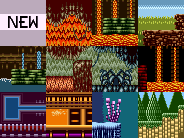
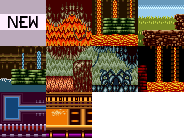
BF worldmap fixes

Changed region(s): [[0.4891, 0.6667, 1.0, 1.0]]

diff --git a/src/ui/area_selector.cpp b/src/ui/area_selector.cpp
@@ -27,8 +27,9 @@ void TA_AreaSelector::appendPoints() {
         std::string path = (element.contains("path") ? element.at("path").as_string() : "");
         float x = static_cast<float>(element.at("x").as_integer());
         float y = static_cast<float>(element.at("y").as_integer());
+        bool highlight = !element.contains("highlight") || element.at("highlight").as_boolean();
         bool battleFortress = element.contains("battle_fortress") && element.at("battle_fortress").as_boolean();
-        points.emplace_back(name, path, TA_Point(x + xOffset, y + yOffset), battleFortress);
+        points.emplace_back(name, path, TA_Point(x + xOffset, y + yOffset), highlight, battleFortress);
 
         if(element.contains("up")) {
             points.back().setNeighbour(TA_DIRECTION_UP, static_cast<int>(element.at("up").as_integer()));
@@ -77,8 +78,13 @@ void TA_AreaSelector::addSelectedArea() {
 
 void TA_AreaSelector::setActivePoints() {
     int64_t areaMask = TA::save::getSaveParameter("area_mask");
-    int add = (TA::save::getSaveParameter("seafox") ? 40 : 0);
+    int64_t itemMask = TA::save::getSaveParameter("item_mask");
+    bool seafox = (TA::save::getSaveParameter("seafox") != 0);
+    int add = (seafox ? 40 : 0);
     for(int level = 0; level < static_cast<int>(points.size()); level++) {
+        if(seafox && points[level].isBattleFortress() && (itemMask & (1LL << 25)) == 0) {
+            continue;
+        }
         if((areaMask & (1LL << (level + add))) != 0) {
             points[level].activate();
         }
@@ -128,10 +134,8 @@ TA_ScreenState TA_AreaSelector::update() {
 }
 
 void TA_AreaSelector::draw() {
-    if(TA::save::getSaveParameter("seafox") == 0) {
-        for(int pos = 1; pos < static_cast<int>(points.size()); pos++) {
-            points[pos].draw();
-        }
+    for(int pos = 1; pos < static_cast<int>(points.size()); pos++) {
+        points[pos].draw();
     }
     tailsIcon.draw();
     controller.draw();
@@ -141,10 +145,11 @@ std::string TA_AreaSelector::getSelectionName() {
     return points[pos].getName();
 }
 
-TA_MapPoint::TA_MapPoint(std::string name, std::string path, TA_Point position, bool battleFortress) {
+TA_MapPoint::TA_MapPoint(std::string name, std::string path, TA_Point position, bool highlight, bool battleFortress) {
     this->position = position;
     this->name = name;
     this->path = path;
+    this->highlight = highlight;
     this->battleFortress = battleFortress;
     for(int direction = 0; direction < TA_DIRECTION_MAX; direction++) {
         neighbours[direction] = -1;
@@ -161,7 +166,7 @@ bool TA_MapPoint::updateButton() {
 }
 
 void TA_MapPoint::draw() {
-    if(!active) {
+    if(!active || !highlight) {
         return;
     }
 

diff --git a/src/ui/data_select_section.cpp b/src/ui/data_select_section.cpp
@@ -9,6 +9,7 @@ void TA_DataSelectSection::load() {
     selectorRedSprite.load("data_select/selector.png", 48, 72);
     selectorWhiteSprite.load("data_select/selector.png", 48, 72);
     previewSprite.load("data_select/preview.png", 46, 46);
+    previewSeafoxSprite.load("data_select/preview_seafox.png", 46, 46);
     optionsSprite.load("data_select/options.png");
 
     font.loadFont("fonts/pause_menu.toml");
@@ -141,6 +142,7 @@ void TA_DataSelectSection::drawCustomEntries() {
 void TA_DataSelectSection::drawSaveEntries() {
     entrySprite.setAlpha(alpha);
     previewSprite.setAlpha(alpha);
+    previewSeafoxSprite.setAlpha(alpha);
     font.setAlpha(255 * ((float)alpha / 255) * ((float)alpha / 255));
 
     for(int num = 0; num < 8; num++) {
@@ -149,13 +151,22 @@ void TA_DataSelectSection::drawSaveEntries() {
         entrySprite.setPosition(entryPosition);
         entrySprite.draw();
 
+        previewSprite.setPosition(entryPosition + TA_Point(1, 1));
+        previewSeafoxSprite.setPosition(entryPosition + TA_Point(1, 1));
         if(TA::save::saveExists(num) && num != createdSave) {
-            previewSprite.setFrame(TA::save::getParameter("save_" + std::to_string(num) + "/last_unlocked"));
+            int lastUnlocked =
+                static_cast<int>(TA::save::getParameter("save_" + std::to_string(num) + "/last_unlocked"));
+            if(lastUnlocked >= 41) {
+                previewSeafoxSprite.setFrame(lastUnlocked - 41);
+                previewSeafoxSprite.draw();
+            } else {
+                previewSprite.setFrame(lastUnlocked);
+                previewSprite.draw();
+            }
         } else {
             previewSprite.setFrame(0);
+            previewSprite.draw();
         }
-        previewSprite.setPosition(entryPosition + TA_Point(1, 1));
-        previewSprite.draw();
 
         font.drawText(entryPosition + TA_Point(11, 50), std::to_string(getSavePercent(num)) + "%");
         font.drawText(entryPosition + TA_Point(11, 60), getSaveTime(num), TA_Point(-2, 0));
@@ -227,7 +238,7 @@ int TA_DataSelectSection::getSavePercent(int save) {
     std::string saveName = "save_" + std::to_string(save);
     int areaCount = std::popcount((unsigned long long)TA::save::getParameter(saveName + "/area_mask"));
     int itemCount = std::popcount((unsigned long long)TA::save::getParameter(saveName + "/item_mask"));
-    return 50 * (float(areaCount - 3) / 12 + float(itemCount - 2) / 30);
+    return 50 * (float(areaCount - 3) / 13 + float(itemCount - 2) / 30);
 }
 
 std::string TA_DataSelectSection::getSaveTime(int save) {

diff --git a/src/objects/transition.cpp b/src/objects/transition.cpp
@@ -9,11 +9,12 @@ void TA_Transition::load(TA_Point topLeft, TA_Point bottomRight, std::string lev
     this->levelPath = levelPath;
 }
 
-void TA_Transition::load(TA_Point topLeft, TA_Point bottomRight, int selection, bool seaFox) {
+void TA_Transition::load(TA_Point topLeft, TA_Point bottomRight, int selection, bool seaFox, int unlock) {
     hitbox.setRectangle(topLeft, bottomRight);
     screenState = TA_SCREENSTATE_MAP;
     this->selection = selection;
     this->seaFox = seaFox;
+    this->unlock = unlock;
 }
 
 bool TA_Transition::update() {
@@ -25,6 +26,14 @@ bool TA_Transition::update() {
         } else {
             TA::save::setSaveParameter("map_selection", selection);
             TA::save::setSaveParameter("seafox", seaFox);
+            if(unlock != 0) {
+                int64_t mask = TA::save::getSaveParameter("area_mask");
+                if((mask & (1LL << unlock)) == 0) {
+                    mask |= (1LL << unlock);
+                    TA::save::setSaveParameter("area_mask", mask);
+                    TA::save::setSaveParameter("last_unlocked", unlock);
+                }
+            }
         }
         objectSet->setTransition(screenState);
     }

diff --git a/src/objects/transition.h b/src/objects/transition.h
@@ -8,13 +8,14 @@ class TA_Transition : public TA_Object {
 private:
     TA_ScreenState screenState;
     std::string levelPath;
-    int selection;
-    bool seaFox;
+    int selection = 0;
+    bool seaFox = false;
+    int unlock = 0;
 
 public:
     using TA_Object::TA_Object;
     void load(TA_Point topLeft, TA_Point bottomRight, std::string levelPath);
-    void load(TA_Point topLeft, TA_Point bottomRight, int selection, bool seaFox);
+    void load(TA_Point topLeft, TA_Point bottomRight, int selection, bool seaFox, int unlock);
     bool update() override;
     void draw() override;
 };

diff --git a/src/engine/object_set.cpp b/src/engine/object_set.cpp
@@ -256,7 +256,8 @@ void TA_ObjectSet::loadObject(std::string name, toml::value object) {
     else if(name == "map_transition") {
         int selection = object.at("selection").as_integer();
         bool seaFox = object.contains("seafox") && object.at("seafox").as_boolean();
-        spawnObject<TA_Transition>(topLeft, bottomRight, selection, seaFox);
+        int unlock = object.contains("unlock") ? object.at("unlock").as_integer() : 0;
+        spawnObject<TA_Transition>(topLeft, bottomRight, selection, seaFox, unlock);
     }
 
     else if(name == "wind") {

diff --git a/src/ui/area_selector.h b/src/ui/area_selector.h
@@ -43,11 +43,12 @@ private:
     bool battleFortress;
 
     bool active = false;
+    bool highlight = true;
     float bfTimer = 0;
     float lightTimer = 0;
 
 public:
-    TA_MapPoint(std::string name, std::string path, TA_Point position, bool battleFortress);
+    TA_MapPoint(std::string name, std::string path, TA_Point position, bool highlight, bool battleFortress);
     void setNeighbour(TA_Direction direction, int neighbour) { neighbours[direction] = neighbour; }
     void activate() { active = true; }
     bool updateButton();

diff --git a/src/objects/cruiser.cpp b/src/objects/cruiser.cpp
@@ -146,7 +146,7 @@ void TA_Cruiser::updateDestroyed() {
     if(position.x < lockPosition.x - getWidth() - 32) {
         TA::sound::playMusic("sound/lr.vgm");
         objectSet->spawnObject<TA_Transition>(lockPosition + TA_Point(TA::screenWidth + 64, 0),
-            lockPosition + TA_Point(TA::screenWidth + 66, TA::screenHeight), 6, false);
+            lockPosition + TA_Point(TA::screenWidth + 66, TA::screenHeight), 6, false, 0);
         state = State::POST_DESTROYED;
     }
 

diff --git a/src/ui/data_select_section.h b/src/ui/data_select_section.h
@@ -36,7 +36,7 @@ private:
     std::vector<std::string> generateSplashSequence();
     std::string generateSplash();
 
-    TA_Sprite entrySprite, selectorRedSprite, selectorWhiteSprite, previewSprite, optionsSprite;
+    TA_Sprite entrySprite, selectorRedSprite, selectorWhiteSprite, previewSprite, previewSeafoxSprite, optionsSprite;
     TA_Sound switchSound, selectSound, loadSaveSound;
     TA_Font font, splashFont;
     float timer = 0, selectorTimer = 0;

diff --git a/src/objects/speedy.cpp b/src/objects/speedy.cpp
@@ -16,7 +16,7 @@ void TA_Speedy::load() {
 
     if(isComplete()) {
         objectSet->spawnObject<TA_Transition>(
-            TA_Point(leftX + TA::screenWidth - 2, 3888), TA_Point(leftX + TA::screenWidth, 4016), 3, false);
+            TA_Point(leftX + TA::screenWidth - 2, 3888), TA_Point(leftX + TA::screenWidth, 4016), 3, false, 0);
         return;
     }
 

diff --git a/src/objects/mecha_golem.cpp b/src/objects/mecha_golem.cpp
@@ -10,7 +10,7 @@
 
 void TA_MechaGolem::load() {
     if(isComplete()) {
-        objectSet->spawnObject<TA_Transition>(TA_Point(510, 0), TA_Point(512, 144), 4, false);
+        objectSet->spawnObject<TA_Transition>(TA_Point(510, 0), TA_Point(512, 144), 4, false, 0);
         return;
     }
 
